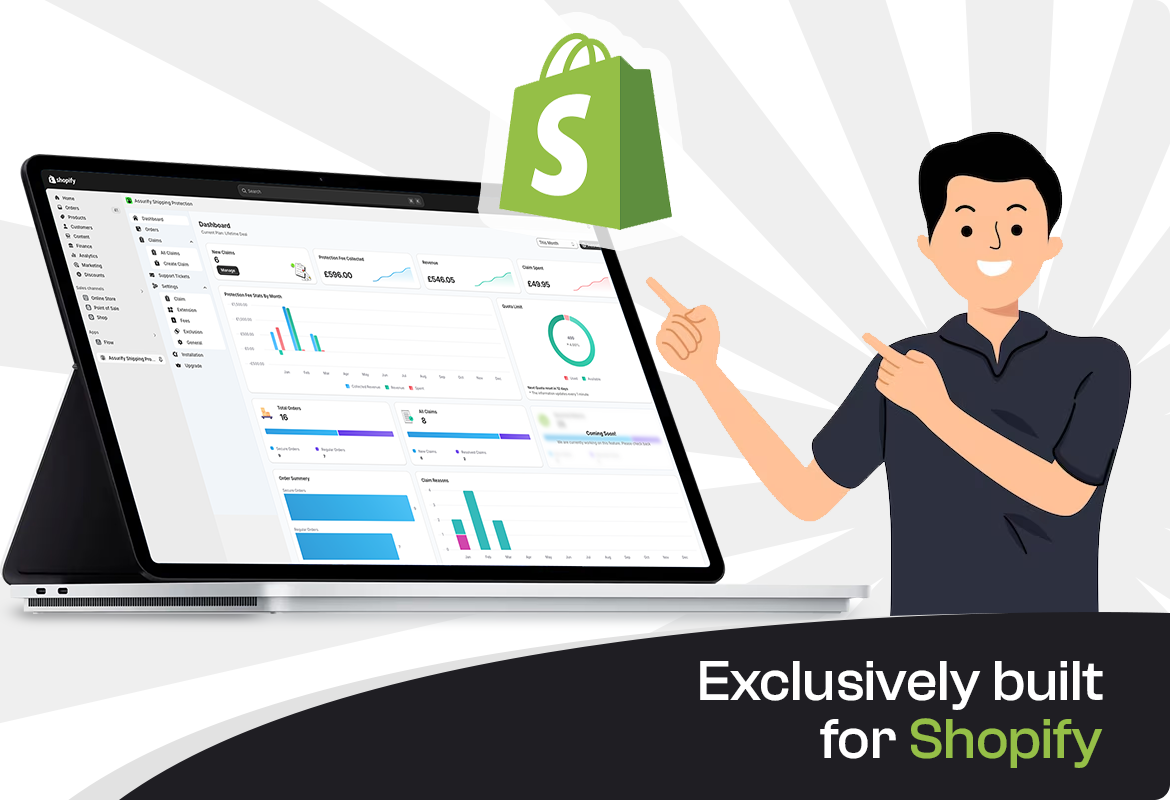
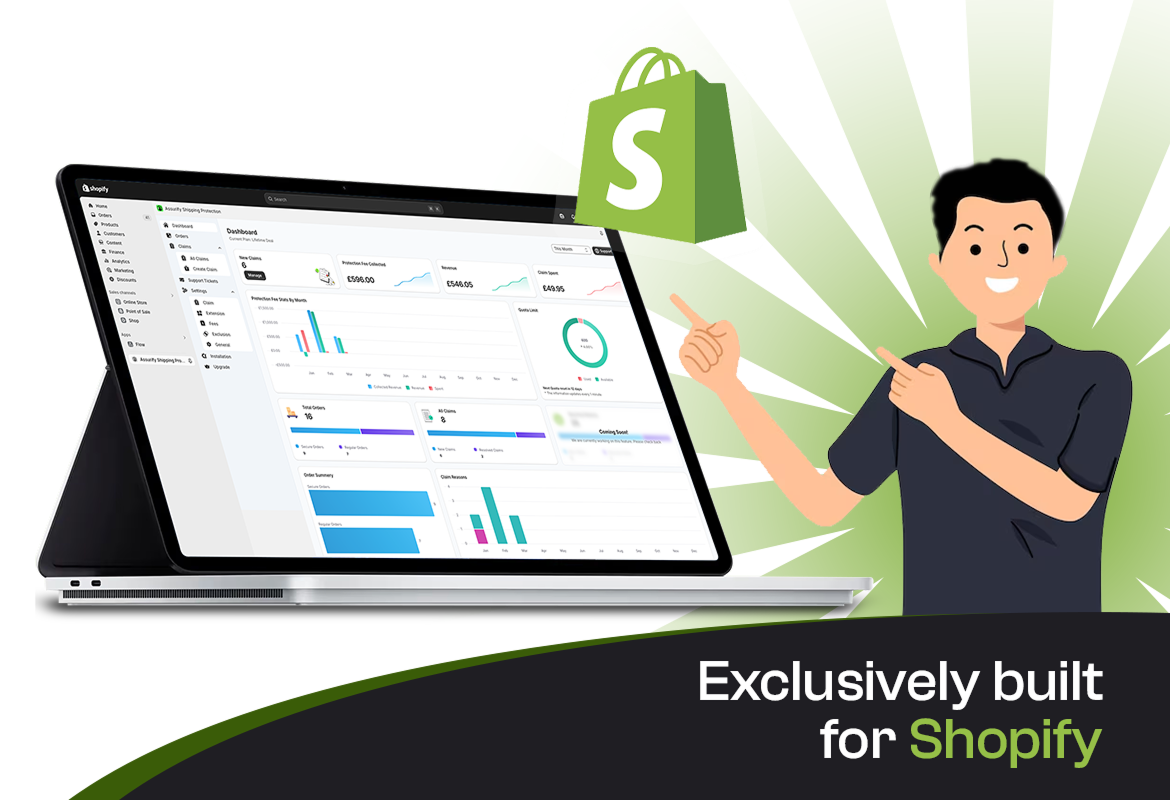
fix[forMerchant]: fix the styles issue and update the image

diff --git a/src/component/ForMerchant/ForMerchantSection.jsx b/src/component/ForMerchant/ForMerchantSection.jsx
@@ -5,38 +5,14 @@ import supportIcon from '../../assets/support/support.svg'
 import supportImage from '../../assets/support/supportImage.svg'
 import benefit1 from '../../assets/benefits/benefit-1.png'
 import benefit2 from '../../assets/benefits/benefit-2.png'
-import benefit3 from '../../assets/benefits/benefit-3.png'
 import brandImage from '../../assets/forMerchant/brands.png'
 import Container from '../Common/Container'
 import SectionTitle from '../Common/SectionTitle'
 import Button from '../Common/Button'
 import AssurifyDashboard from '../../assets/forMerchant/assurify_dashboard.png'
+import Benefits from '../Home/Benfits'
 
 const ForMerchantSection = () => {
-  const benefitsData = [
-    {
-      id: 1,
-      title: 'No Direct Cost to Sellers',
-      description:
-        'Check out our custom research services designed to tackle your business challenges! We offer market analysis and consumer insights to help you make better decisions and boost your growth.',
-      image: benefit1
-    },
-    {
-      id: 2,
-      title: 'Flexible Integrations',
-      description:
-        'Check out our custom research services designed to tackle your business challenges! We offer market analysis and consumer insights to help you make better decisions and boost your growth.',
-      image: benefit2
-    },
-    {
-      id: 3,
-      title: 'Superior Customer Service',
-      description:
-        'Check out our custom research services designed to tackle your business challenges! We offer market analysis and consumer insights to help you make better decisions and boost your growth.',
-      image: benefit3
-    }
-  ]
-
   return (
     <>
       {/* Hero Section */}
@@ -47,83 +23,46 @@ const ForMerchantSection = () => {
             middleText='Enhance your revenue and manage shipping protection from one app'
             bottomText='Lorem ipsum dolor sit amet, consectetur adipiscing elit. Nam mollis ante eu sem tempus, eleifend sollicitudin felis cursus.Praesent non ante vitae turpis.'
           />
-          <div className='flex justify-center gap-7 pt-[30px]'>
+          <div className='flex justify-center gap-4 sm:gap-6 lg:gap-[30px] pt-3 md:pt-5 lg:pt-8'> 
             <Button variant='primary-white'>How it works</Button>
 
             <Button variant='secondary-outline'>View Demo</Button>
           </div>
         </Container>
-        <div className='max-w-[1170px] mx-auto w-full max-h-[812px] rounded-lg shadow-md mt-12 flex justify-center items-center'>
+        <div className='max-w-[1170px] mx-auto w-full max-h-[812px] rounded-lg shadow-md mt-8 lg:mt-12 flex justify-center items-center'>
           <img src={AssurifyDashboard} />
         </div>
       </div>
       {/* Brands Section */}
-      <div className='w-full py-[24px] px-[0] sm:px-[24px] lg:py-[94px] relative bg-gradient-to-r from-white/5 to-white/5 backdrop-blur-[37px] overflow-hidden'>
+      <div className='w-full py-[24px] px-[0] sm:px-[24px] lg:py-[150px] relative bg-gradient-to-r from-white/5 to-white/5 backdrop-blur-[37px] overflow-hidden'>
         <div className='absolute top-1/2 left-[-50%] transform -translate-y-1/2 pointer-events-none z-0'>
           <img src={roundBg} alt='Background decoration' />
         </div>
         <div className='absolute top-1/2 right-[-50%] transform -translate-y-1/2 pointer-events-none z-0'>
           <img src={roundBg} alt='Background decoration' />
         </div>
-        <Container horizontalPadding='29px'>
+        {/* <Container> */}
           <SectionTitle
             topText='Brands'
             middleText='Exclusively built for Shopify'
             bottomText='Lorem ipsum dolor sit amet, consectetur adipiscing elit. Nam mollis ante eu sem tempus, eleifend sollicitudin felis cursus.Praesent non ante vitae turpis.'
           />
-        </Container>
-        <div className='max-w-[1170px] mx-[24px] sm:mx-auto max-h-[800px] rounded-lg shadow-md mt-12 sm:mb-[126px] flex justify-center items-center'>
+        {/* </Container> */}
+        <div className='max-w-[1170px] mx-[24px] sm:mx-auto max-h-[800px] rounded-lg shadow-md flex justify-center items-center'>
           <img src={brandImage} alt='Brands Image' />
         </div>
       </div>
       {/* Benefits Section */}
-      <div className='relative overflow-hidden bg-[#0C0D0C]'>
-        <Container>
-          <div className='sm:py-[150px] py-[50px] relative z-10'>
-            <div className='grid grid-cols-1 sm:grid-cols-2 gap-[24px] sm:gap-[130px] shrink-0'>
-              <SectionTitle
-                topText={'Benefits'}
-                middleText={'Exclusive customer Experience'}
-                bottomText={
-                  'A perfect balance—customers get great value, and merchants boost their sales effortlessly!'
-                }
-                isTextCentered={false}
-              />
-
-              <div className='flex flex-col gap-[24px] sm:gap-[30px]'>
-                {benefitsData.map((benefit) => (
-                  <div
-                    key={benefit.id}
-                    className='p-4 sm:p-6 rounded-2xl bg-gradient-to-br from-white/10 via-white/5 to-white/5 backdrop-blur-[20px] flex flex-col gap-3 items-start'>
-                    <div className='p-2 sm:p-3  rounded-sm bg-[linear-gradient(195deg,rgba(255,255,255,0.10)_0%,rgba(255,255,255,0.02)_50%,rgba(255,255,255,0.06)_100%)] backdrop-blur-[20px] lg:w-[56px] lg:h-[56px] w-[40px] h-[40px]'>
-                      <img
-                        src={benefit.image}
-                        alt='benefit'
-                        className='lg:w-[32px] lg:h-[32px] w-[24px] h-[24px]'
-                      />
-                    </div>
-                    <h3 className='text-[16px] sm:text-[25px] lg:text-[32px] font-normal text-[#f7f7f7] leading-[24px] sm:leading-[40px] lg:leading-[48px]'>
-                      {benefit.title}
-                    </h3>
-                    <p className='text-[14px] sm:text-base font-normal leading-[24px] sm:leading-[30px] text-[#A6A6A6]'>
-                      {benefit.description}
-                    </p>
-                  </div>
-                ))}
-              </div>
-            </div>
-          </div>
-        </Container>
-      </div>
-      {/* Protection Coverage Section */}
-      <div className='w-full sm:py-[94px] py-[24px] relative bg-gradient-to-r from-white/5 to-white/5 backdrop-blur-[37px] overflow-hidden'>
+      <Benefits /> 
+      {/* Protection Coverage section */}
+      <div className='w-full sm:py-[150px] py-[24px] relative bg-gradient-to-r from-white/5 to-white/5 backdrop-blur-[37px] overflow-hidden lg:mt-[150px] mt-[50px]'>
         <div className='absolute top-1/2 left-[-50%] transform -translate-y-1/2 pointer-events-none z-0'>
           <img src={roundBg} alt='Background decoration' />
         </div>
         <div className='absolute top-1/2 right-[-50%] transform -translate-y-1/2 pointer-events-none z-0'>
           <img src={roundBg} alt='Background decoration' />
         </div>
-
+ 
         <Container>
           <SectionTitle
             topText='Protection Coverage'
@@ -131,7 +70,7 @@ const ForMerchantSection = () => {
             bottomText='Lorem ipsum dolor sit amet, consectetur adipiscing elit. Nam mollis ante eu sem tempus, eleifend sollicitudin felis cursus Praesent non ante vitae turpis.'
           />
 
-          <div className='max-w-[874px] mx-auto grid grid-cols-1 md:grid-cols-2 gap-[30px] mt-[48px]'>
+          <div className='max-w-[874px] mx-auto grid grid-cols-1 md:grid-cols-2 gap-[16px] lg:gap-[30px] mt-[32px] lg:mt-[48px]'>
             <div className='flex flex-col gap-3 items-start max-w-[422px]'>
               <div className='bg-[linear-gradient(195deg,rgba(255,255,255,0.10)_0%,rgba(255,255,255,0.02)_50%,rgba(255,255,255,0.06)_100%)] backdrop-blur-[20px] sm:p-4 p-2 rounded-xl'>
                 <img
@@ -176,7 +115,7 @@ const ForMerchantSection = () => {
       {/* Support Section */}
       <div className='bg-[#0C0D0C]'>
         <Container>
-          <div className='sm:py-[150px] py-[50px]'>
+          <div className='sm:pt-[150px] pt-[50px]'>
             <div className='grid grid-cols-1 md:grid-cols-2 gap-[30px]'>
               <div className='flex flex-col gap-[32px] md:gap-[48px] md:max-w-[570px] w-full'>
                 <SectionTitle
